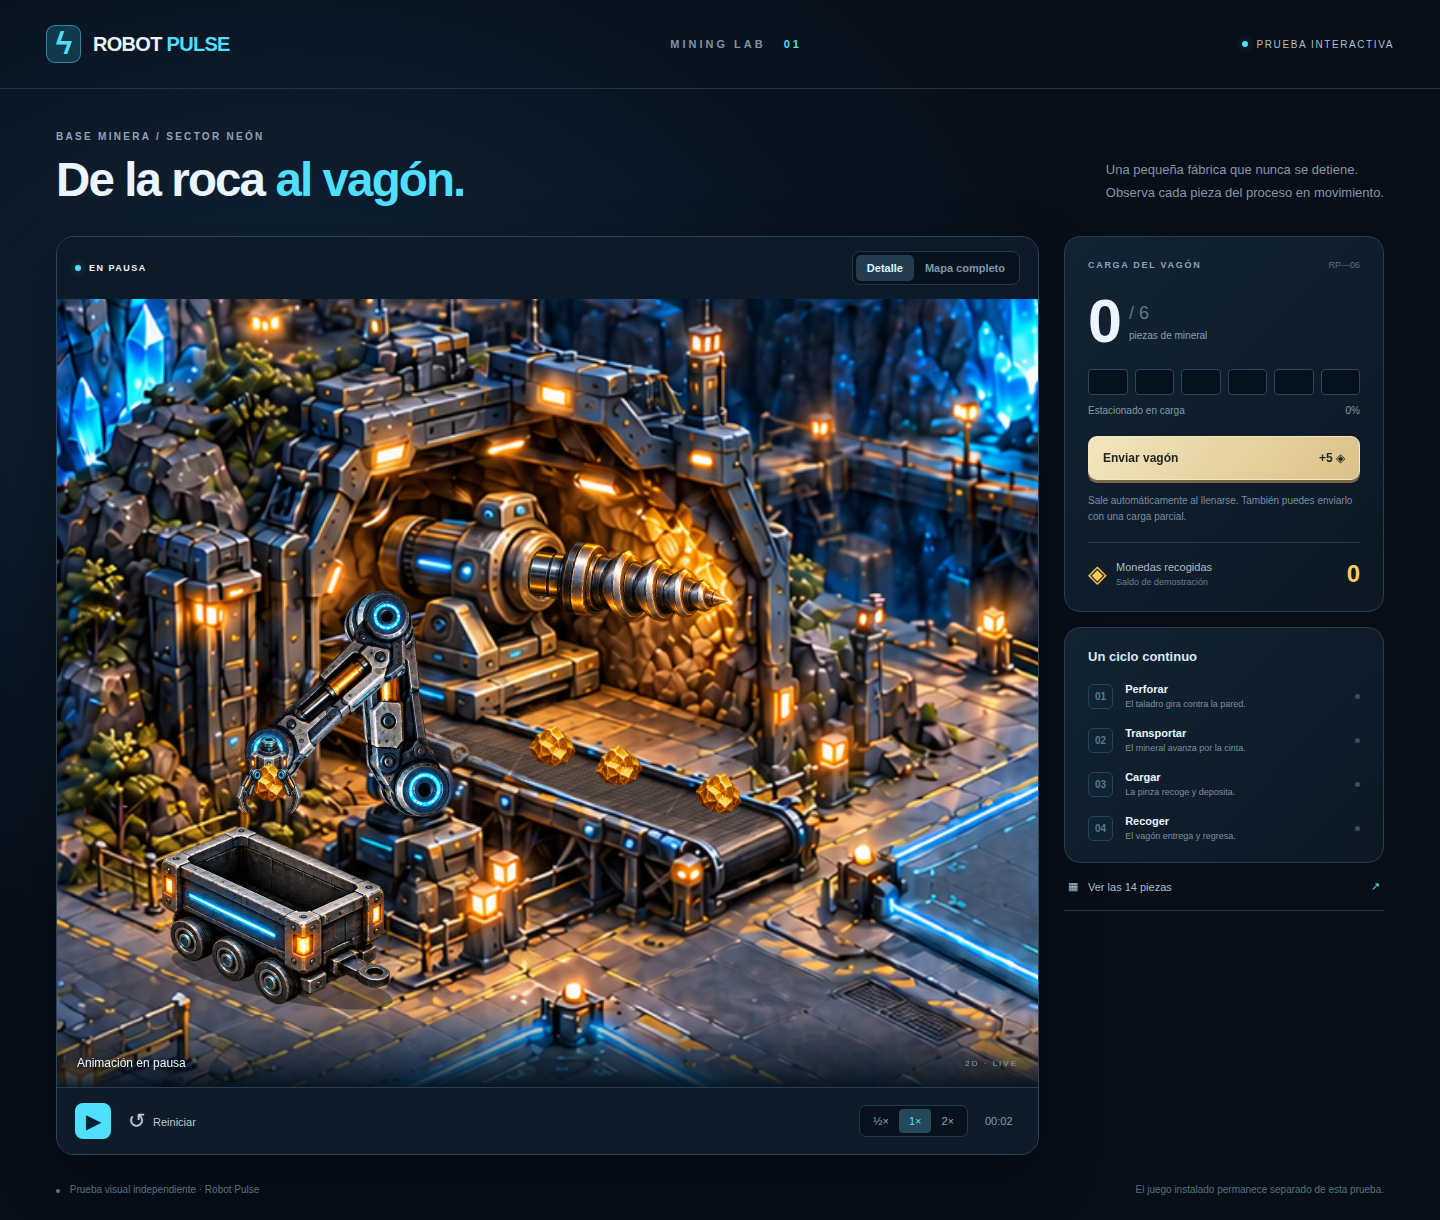
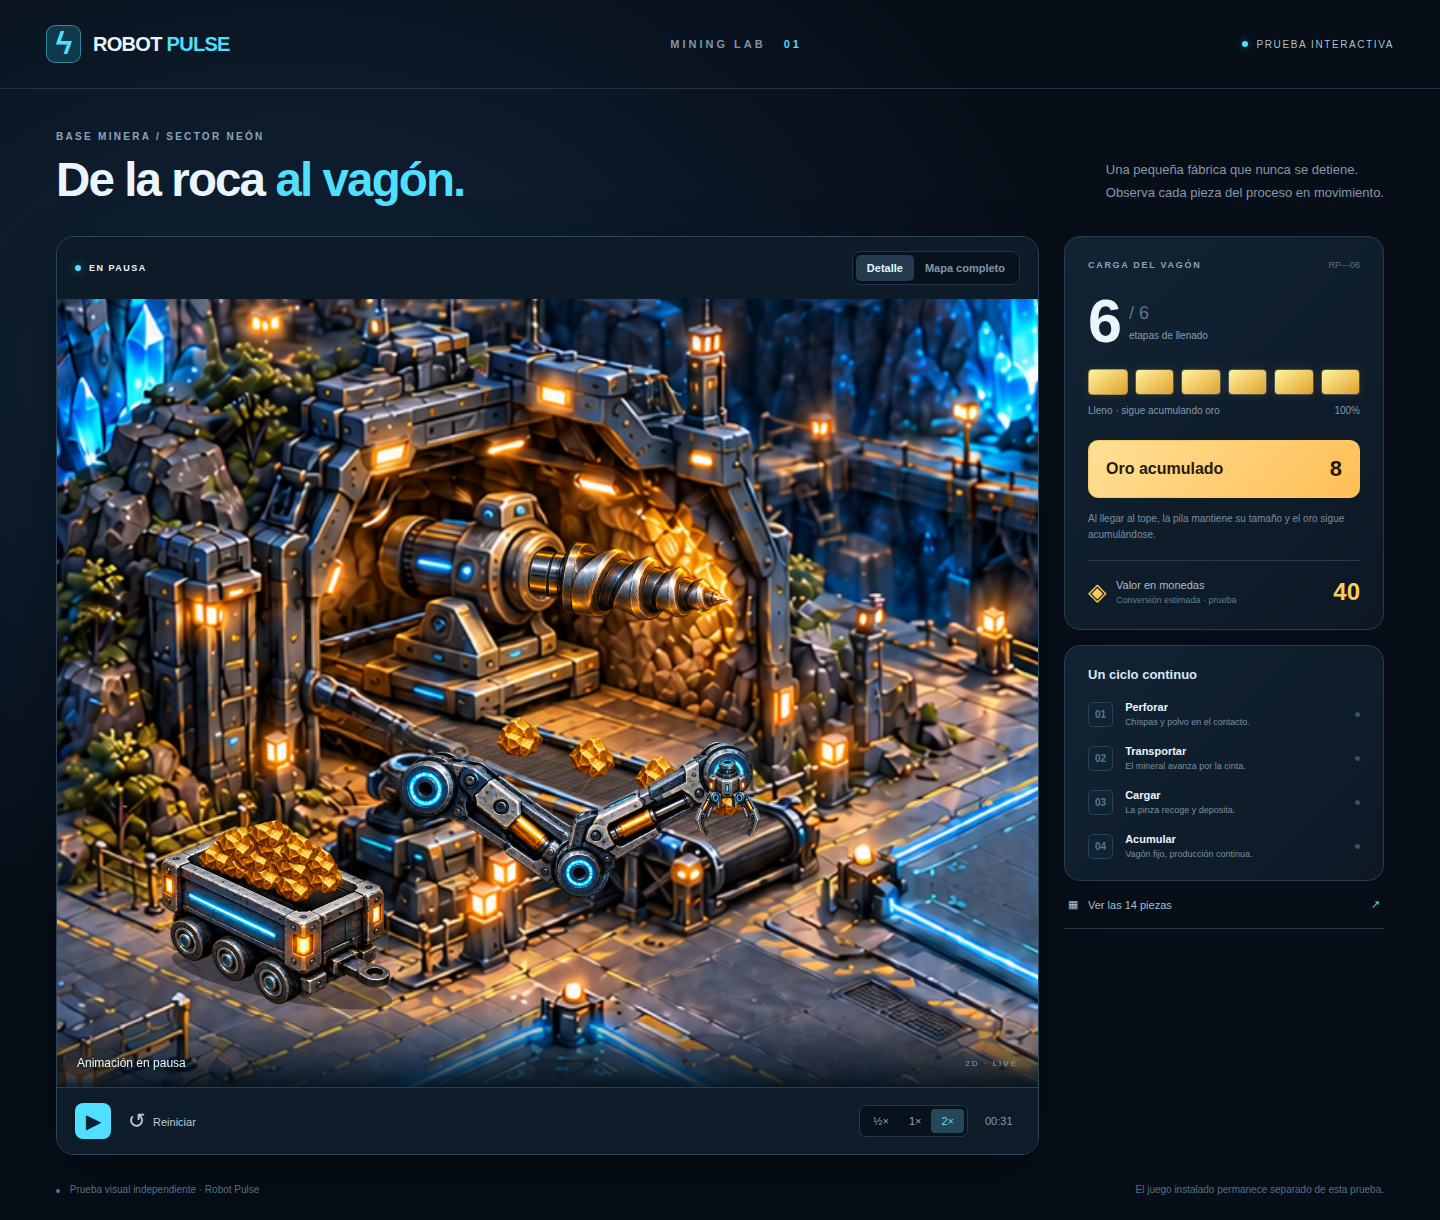
docs(mining): record verified stationary wagon preview and mobile evidence

diff --git a/docs/mining-preview/README.md b/docs/mining-preview/README.md
@@ -1,34 +1,36 @@
 # Robot Pulse — prueba de animación minera
 
-[ABRIR LA PRUEBA WEB](https://raw.githack.com/manureymar/Juego-nuevo/4c35459f871303d4b14065f4cc33e9c9f1f2edf0/previews/mining/index.html)
+[ABRIR LA PRUEBA WEB](https://raw.githack.com/manureymar/Juego-nuevo/35d0191e27cd19e45d20ff42e89a77ecfa98577f/previews/mining/index.html)
 
-[Código y recursos](../../previews/mining/) · [Flujo de comprobación](https://github.com/manureymar/Juego-nuevo/actions/runs/38006566783)
+[Código y recursos](../../previews/mining/) · [Flujo de comprobación](https://github.com/manureymar/Juego-nuevo/actions/runs/38007695196)
 
-Esta entrega es una prueba web independiente. La aplicación Android 0.5.0 y el primer nivel no se modificaron. La interfaz de revisión muestra el detalle de la mina y permite alternar al mapa completo. Los recursos y todo el código están en este mismo repositorio.
+Revisión del 10 de octubre de 2026: chispas, polvo y partículas pequeñas junto a la punta del taladro; vagón estacionado, pila visual limitada y oro acumulado independiente. Se conserva el resto de la escena y sus recursos. La prueba sigue separada de la aplicación Android.
 
 ## Uso
 
-La animación comienza al terminar de cargar las imágenes. Puedes pausarla, reiniciarla, cambiar entre ½×, 1× y 2×, alternar detalle/mapa, enviar un vagón parcialmente lleno o abrir la galería de las 14 piezas. El vagón sale automáticamente al llegar a seis piedras; cada entrega acredita cinco monedas de demostración por piedra. La prueba no comparte saldo ni partidas con la aplicación.
+La animación empieza al cargar las imágenes. Puedes pausarla, reiniciarla, cambiar entre ½×, 1× y 2×, alternar detalle/mapa o abrir la galería de las 14 piezas.
 
-El taladro gira contra una pared fija. Las piedras aparecen sobre la cinta; la pinza las recoge, mantiene la piedra unida durante el traslado y la deposita en el vagón. El vagón entrega y regresa vacío. No se simula erosión ni caída de piedras.
+El taladro gira contra la pared fija. Las chispas, motas y polvo se dibujan con código junto al punto de contacto, sin modificar la pared. Las piedras aparecen sobre la cinta y la pinza las deposita en el vagón.
 
-El enlace utiliza los archivos del commit `4c35459f871303d4b14065f4cc33e9c9f1f2edf0`. El servicio de previsualización puede pedir confirmar el destino la primera vez que se abre una página HTML.
+El vagón permanece inmóvil y se llena hasta el borde en seis etapas visuales. Una vez lleno, la pila conserva exactamente su tamaño y posición, pero la pinza sigue cargando. Cada depósito aumenta el contador de oro una sola vez. El valor en monedas es una estimación de prueba (cinco por unidad), no una recogida ni un saldo ya convertido.
+
+El enlace utiliza los archivos del commit `35d0191e27cd19e45d20ff42e89a77ecfa98577f`. El servicio de previsualización puede pedir confirmar el destino la primera vez que se abre una página HTML.
 
 ## Verificación
 
-- Cuatro pruebas de lógica: identidad y conservación de piedras, capacidad, articulaciones conectadas, entrega única, recogida parcial y reinicio.
-- Recorrido en Chromium a 1440 × 1050, 390 × 844 y 360 × 640: pausa/reanudación, velocidad, reinicio, recogida parcial y completa, mapa y galería.
+- Cinco pruebas de lógica: identidad de piedras y articulaciones, producción continua con pila limitada y vagón fijo, crédito al depositar, partículas pequeñas sincronizadas con el reloj y reinicio.
+- Recorrido en Chromium a 1440 × 1050, 390 × 844 y 360 × 640: controles, pausa de toda la escena, llenado, crecimiento posterior del oro, mapa y galería.
+- Comparación de píxeles del vagón lleno antes y después de continuar produciendo: idénticos.
 - Enlace público y recursos HTML, CSS, JavaScript y PNG comprobados.
-- Registros y capturas de la ejecución final se adjuntan en esta carpeta.
 
-La ruta del vagón es provisional para demostrar su desplazamiento. La logística entre futuros edificios, acumulación offline, guardado y economía definitiva quedan para la integración posterior.
+La futura recogida mediante camiones, conversión definitiva, guardado y acumulación offline quedan para la integración posterior. La pestaña oculta pausa esta prueba.
 
 ## Capturas reales
 
-![Prueba de escritorio](desktop.png)
+![Vagón lleno en escritorio](desktop.png)
 
 | Teléfono | Galería de recursos |
 | --- | --- |
-| ![Prueba móvil](mobile.png) | ![Recursos](assets.png) |
+| ![Vagón lleno en móvil](mobile.png) | ![Recursos](assets.png) |
 
-[Resultados del navegador](browser-results.json). Las capturas están pausadas para facilitar su comparación; la página comienza animada.
+[Resultados del navegador](browser-results.json). Las capturas están pausadas; la página comienza animada.
